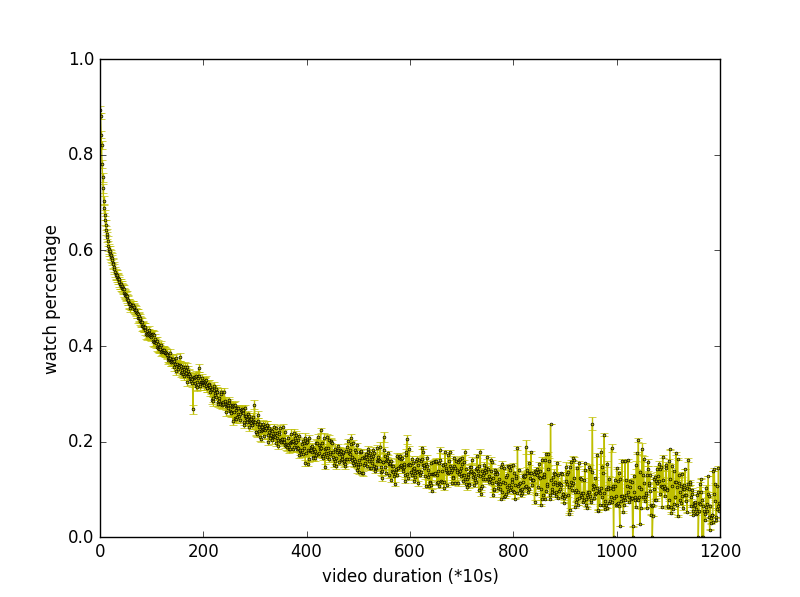
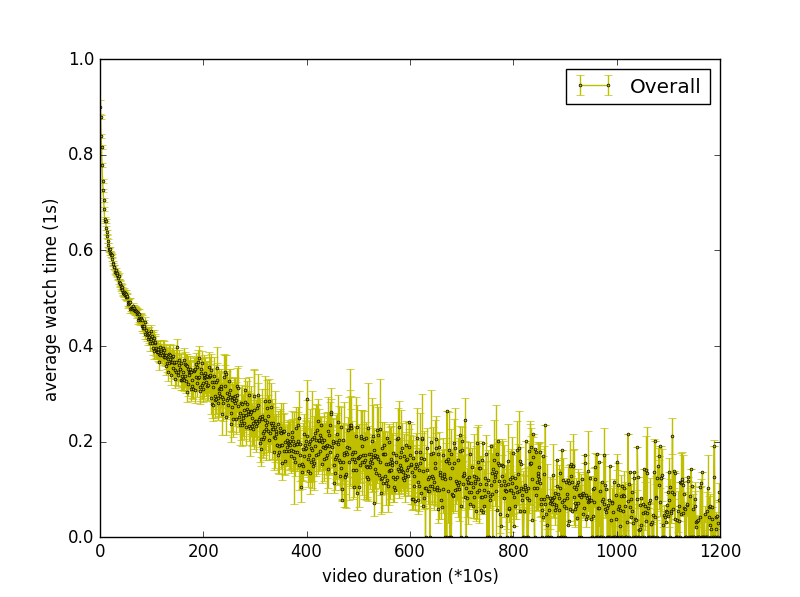
[plot] fix length issue in errorbar plot and update plots

Changed region(s): [[0.125, 0.2714, 0.9062, 0.9045], [0.6875, 0.0905, 0.9062, 0.1809], [0.0312, 0.3317, 0.0938, 0.6633]]

diff --git a/plot/plot_watch_percent_against_age.py b/plot/plot_watch_percent_against_age.py
@@ -29,7 +29,6 @@ def safe_div(a, b):
 
 def plot_errorbar(watch_list, color='b', label_text=None):
     z_critical = stats.norm.ppf(q=0.95)
-    sample_size = len(watch_list[0])
 
     mean_list = []
     error_list = []
@@ -41,11 +40,11 @@ def plot_errorbar(watch_list, color='b', label_text=None):
         else:
             mean = np.mean(watches)
             std = np.std(watches)
-            error = z_critical * (std / math.sqrt(sample_size))
+            error = z_critical * (std / math.sqrt(len(watches)))
             mean_list.append(mean)
             error_list.append(error)
 
-    ax1.errorbar(np.arange(4300), mean_list, yerr=error_list, c=color, fmt='o-', markersize='2', label=label_text)
+    ax1.errorbar(np.arange(len(watch_list)), mean_list, yerr=error_list, c=color, fmt='o-', markersize='2', label=label_text)
     ax1.set_ylim(ymin=0)
     ax1.set_ylim(ymax=1)
     ax1.set_xlabel('video age')
@@ -60,7 +59,7 @@ if __name__ == '__main__':
     cnt1 = 0
     cnt2 = 0
 
-    matrix = [[] for _ in np.arange(4300)]
+    matrix = [[] for _ in np.arange(1800)]
     for subdir, _, files in os.walk(data_loc):
         for f in files:
             filepath = os.path.join(subdir, f)
@@ -79,15 +78,18 @@ if __name__ == '__main__':
                     watches = read_as_float_array(video['insights']['dailyWatch'])
                     watch_percent = safe_div(watches*60, views*duration)
                     for idx, day in enumerate(days):
-                        if watch_percent[idx] <= 1:
-                            matrix[day].append(watch_percent[idx])
-                            cnt0 += 1
-                        else:
-                            matrix[day].append(1)
-                            cnt1 += 1
+                        if day < 1800:
+                            if watch_percent[idx] <= 1:
+                                matrix[day].append(watch_percent[idx])
+                                cnt0 += 1
+                            else:
+                                matrix[day].append(1)
+                                cnt1 += 1
 
     print 'success: {0}, invalid: {1}, unavailable: {2}'.format(cnt0, cnt1, cnt2)
 
-    plot_errorbar(matrix, 'r')
+    valid_matrix = [x for x in matrix if x]
+    plot_errorbar(valid_matrix, color='r', label_text='Overall')
 
+    plt.legend(loc='upper right')
     plt.show()

diff --git a/plot/plot_watch_percent_against_duration.py b/plot/plot_watch_percent_against_duration.py
@@ -13,7 +13,6 @@ import matplotlib.pyplot as plt
 
 def plot_errorbar(watch_list, color='b', label_text=None):
     z_critical = stats.norm.ppf(q=0.95)
-    sample_size = len(watch_list[0])
 
     mean_list = []
     error_list = []
@@ -25,15 +24,17 @@ def plot_errorbar(watch_list, color='b', label_text=None):
         else:
             mean = np.mean(watches)
             std = np.std(watches)
-            error = z_critical * (std / math.sqrt(sample_size))
+            error = z_critical * (std / math.sqrt(len(watches)))
             mean_list.append(mean)
             error_list.append(error)
 
     ax1.errorbar(np.arange(1200), mean_list, yerr=error_list, c=color, fmt='o-', markersize='2', label=label_text)
     ax1.set_ylim(ymin=0)
-    ax1.set_ylim(ymax=1)
+    # ax1.set_ylim(ymax=1)
+    ax1.set_xlim(xmin=0)
+    ax1.set_xlim(xmax=1200)
     ax1.set_xlabel('video duration (*10s)')
-    ax1.set_ylabel('watch percentage')
+    ax1.set_ylabel('average watch time (1s)')
 
 
 if __name__ == '__main__':
@@ -68,6 +69,7 @@ if __name__ == '__main__':
 
     print 'success: {0}, invalid: {1}, unavailable: {2}'.format(cnt0, cnt1, cnt2)
 
-    plot_errorbar(matrix, 'y')
+    plot_errorbar(matrix, color='y', label_text='Overall')
 
+    plt.legend(loc='upper right')
     plt.show()
